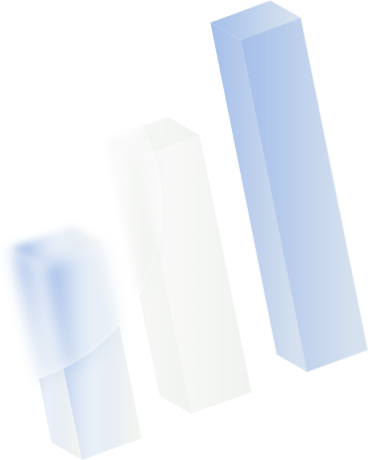
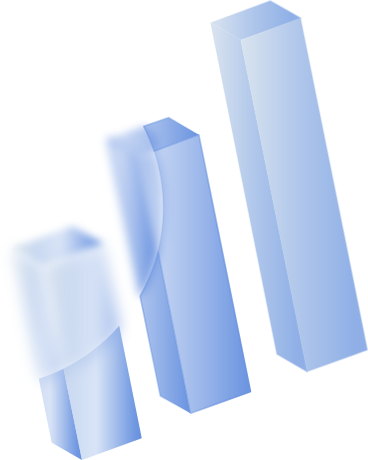
changed styling of services sections

diff --git a/src/Services.css b/src/Services.css
@@ -32,7 +32,10 @@
 }
   
 .services .col {
+  background:var(--background-color);
+  border-radius: 25px;
   min-width: 400px;
+  padding-top: 25px;
 }
   
 .services img {
@@ -42,7 +45,7 @@
 }
   
 .services h4 {
-  color: var(--background-color);
+  color: var(--dark-color);
   font-size: 40px;
   font-weight: 700;
   letter-spacing: -2px;
@@ -60,12 +63,12 @@
 }
 
 .services button {
-  background: rgba(255, 253, 241, 0.25);
+  background: rgba(86, 132, 220, 0.25);
   border: none;
   border-radius: 5px;
-  color: var(--background-color);
+  color: var(--dark-color);
   font-size: 15px;
-  font-weight: 100;
+  font-weight: 300;
   height: 45px;
   width: 100%;
   padding: 10px 5px;
@@ -73,20 +76,16 @@
 }
 
 .services button:hover {
-  background: rgba(255, 253, 241, 0.5);
-  color: var(--background-color);
+  background: rgba(86, 132, 220, 0.5);
 }
 
 .services .active {
-  background: rgba(255, 253, 241, 0.75);
-  backdrop-filter: blur(5px);
-  color: var(--dark-color);
+  background: rgba(86, 132, 220, 0.75);
+  color: var(--background-color);
   font-weight: 400;
 } 
 
 .services .option {
-  background: rgba(255, 253, 241, 0.75);
-  backdrop-filter: blur(5px);
   border-radius: 5px 5px 25px 25px;
   height: 230px;
   margin-top: -12px;
@@ -210,7 +209,11 @@
      
 .services .col {
   min-width: 300px;
-  padding: 0;
+  padding: 25px 10px 0 10px;
+}
+
+.services .option {
+  padding: 30px 10px;
 }
 }
 
